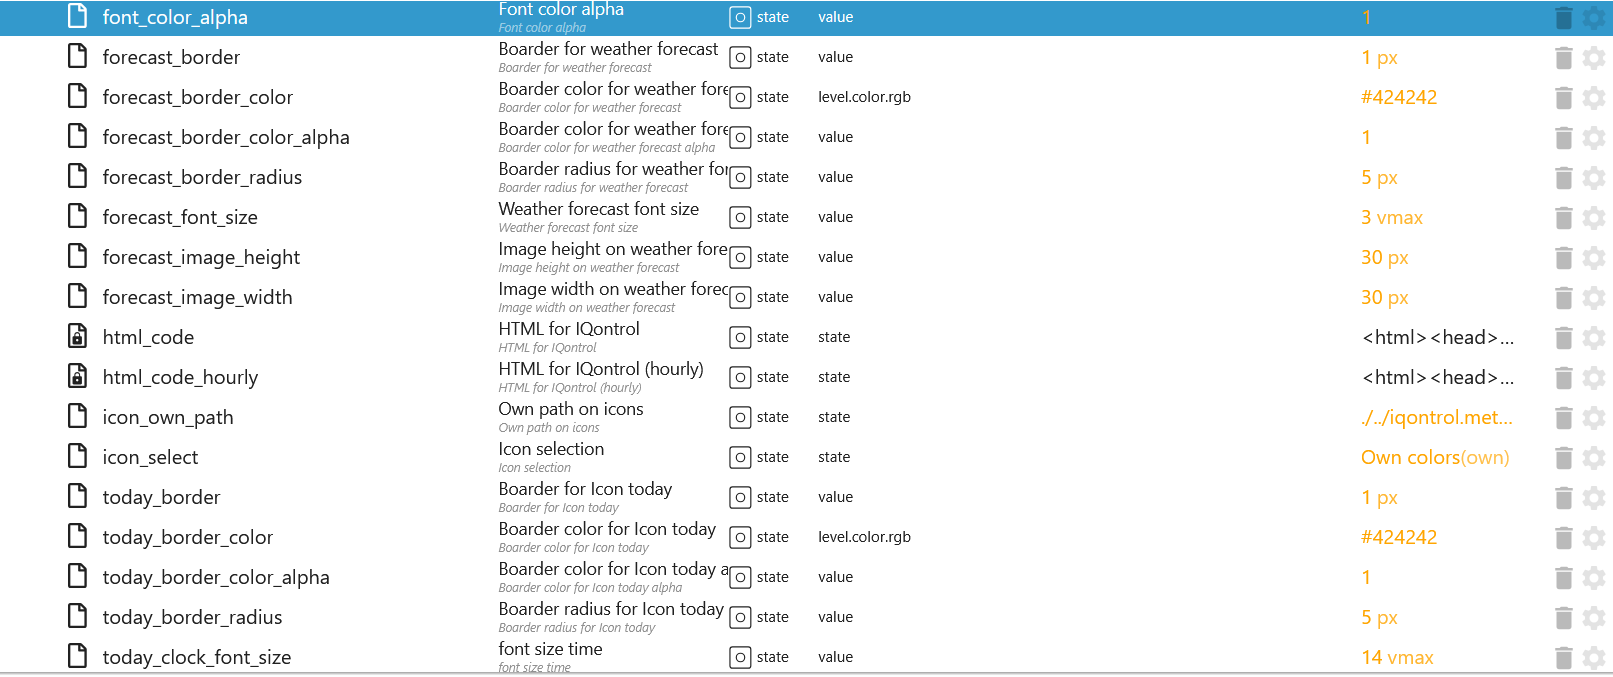
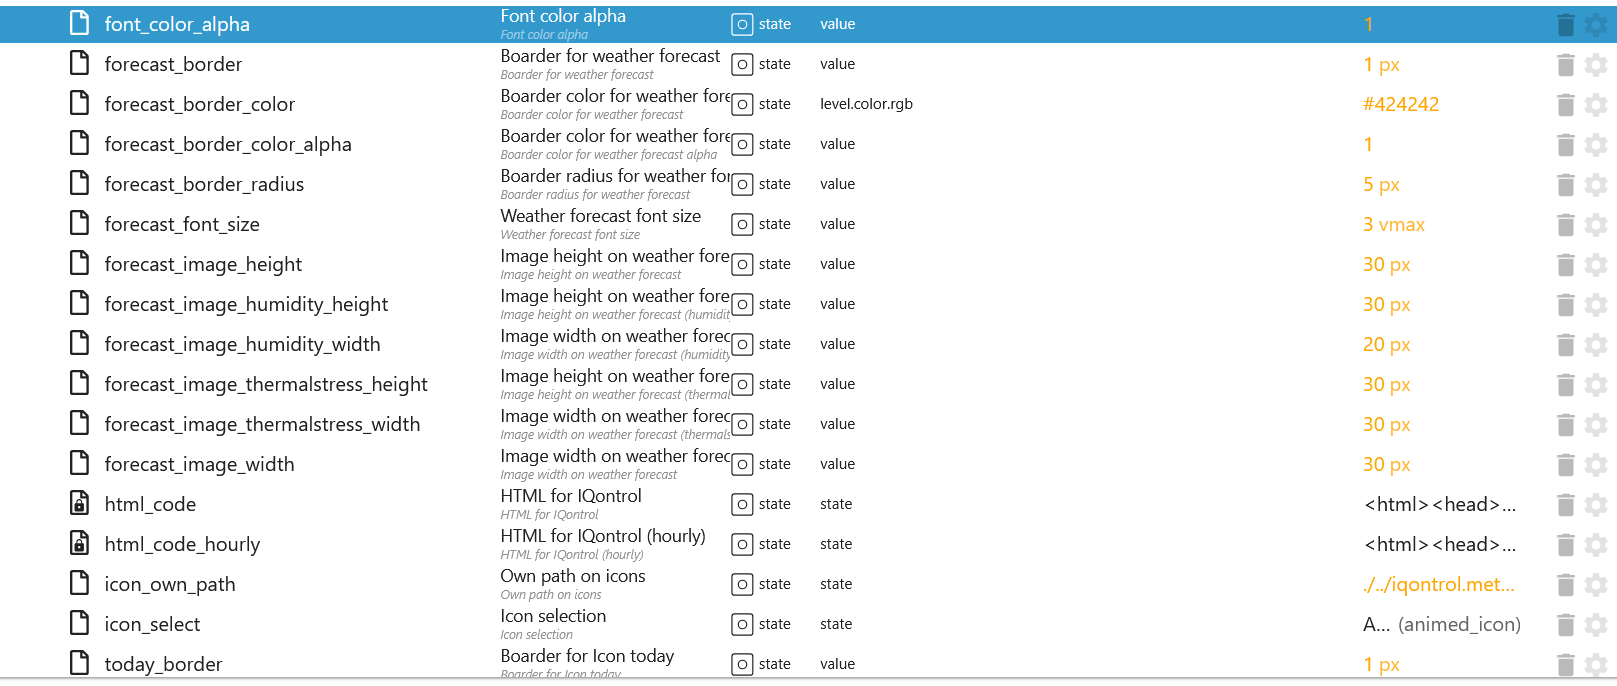
add html settings

diff --git a/lib/helper.js b/lib/helper.js
@@ -894,7 +894,7 @@ module.exports = {
             read: true,
             write: true,
             unit: "vm",
-            def: 15,
+            def: 30,
         };
         await this.createDataPoint(`html.today_image_width`, common, "state", null, null);
         common = {
@@ -917,7 +917,7 @@ module.exports = {
             read: true,
             write: true,
             unit: "vm",
-            def: 15,
+            def: 30,
         };
         await this.createDataPoint(`html.today_image_height`, common, "state", null, null);
         common = {
@@ -1035,6 +1035,98 @@ module.exports = {
             def: 30,
         };
         await this.createDataPoint(`html.forecast_image_height`, common, "state", null, null);
+        common = {
+            type: "number",
+            role: "value",
+            name: {
+                en: "Image width on weather forecast (humidity)",
+                de: "Bildbreite bei Wettervorhersage (Luftfeuchtigkeit)",
+                ru: "Ширина изображения прогноза погоды (влажность)",
+                pt: "Largura da imagem na previsão do tempo (umidade)",
+                nl: "Beeldbreedte op weersvoorspelling (vochtigheid)",
+                fr: "Largeur de l'image sur les prévisions météorologiques (humidité)",
+                it: "Larghezza dell'immagine nelle previsioni del tempo (umidità)",
+                es: "Ancho de la imagen en el pronóstico del tiempo (humedad)",
+                pl: "Szerokość obrazu w prognozie pogody (wilgotność)",
+                uk: "Ширина зображення за прогнозом погоди (вологість)",
+                "zh-cn": "天气预报（湿度）图像宽度",
+            },
+            desc: "Image width on weather forecast (humidity)",
+            read: true,
+            write: true,
+            unit: "px",
+            def: 20,
+        };
+        await this.createDataPoint(`html.forecast_image_humidity_width`, common, "state", null, null);
+        common = {
+            type: "number",
+            role: "value",
+            name: {
+                en: "Image height on weather forecast (humidity)",
+                de: "Bildhöhe bei Wettervorhersage (Luftfeuchtigkeit)",
+                ru: "Высота изображения прогноза погоды (влажность)",
+                pt: "Altura da imagem na previsão do tempo (umidade)",
+                nl: "Hoogte van de afbeelding op de weersvoorspelling (vochtigheid)",
+                fr: "Hauteur de l'image sur les prévisions météorologiques (humidité)",
+                it: "Altezza dell'immagine nelle previsioni del tempo (umidità)",
+                es: "Altura de la imagen en el pronóstico del tiempo (humedad)",
+                pl: "Wysokość obrazu w prognozie pogody (wilgotność)",
+                uk: "Висота зображення за прогнозом погоди (вологість)",
+                "zh-cn": "天气预报图像高度（湿度）",
+            },
+            desc: "Image height on weather forecast (humidity)",
+            read: true,
+            write: true,
+            unit: "px",
+            def: 30,
+        };
+        await this.createDataPoint(`html.forecast_image_humidity_height`, common, "state", null, null);
+        common = {
+            type: "number",
+            role: "value",
+            name: {
+                en: "Image width on weather forecast (thermalstress)",
+                de: "Bildbreite bei Wettervorhersage (Thermalbelastung)",
+                ru: "Ширина изображения прогноза погоды (термостресс)",
+                pt: "Largura da imagem na previsão do tempo (estresse térmico)",
+                nl: "Beeldbreedte op weersvoorspelling (thermische belasting)",
+                fr: "Largeur de l'image sur les prévisions météorologiques (stress thermique)",
+                it: "Larghezza dell'immagine nelle previsioni del tempo (stress termico)",
+                es: "Ancho de la imagen en el pronóstico del tiempo (estrés térmico)",
+                pl: "Szerokość obrazu w prognozie pogody (naprężenie termiczne)",
+                uk: "Ширина зображення за прогнозом погоди (термічний стрес)",
+                "zh-cn": "天气预报图像宽度（热应力）",
+            },
+            desc: "Image width on weather forecast (thermalstress)",
+            read: true,
+            write: true,
+            unit: "px",
+            def: 30,
+        };
+        await this.createDataPoint(`html.forecast_image_thermalstress_width`, common, "state", null, null);
+        common = {
+            type: "number",
+            role: "value",
+            name: {
+                en: "Image height on weather forecast (thermalstress)",
+                de: "Bildhöhe bei Wettervorhersage (Thermalbelastung)",
+                ru: "Высота изображения в прогнозе погоды (термостресс)",
+                pt: "Altura da imagem na previsão do tempo (estresse térmico)",
+                nl: "Beeldhoogte op weersvoorspelling (thermische belasting)",
+                fr: "Hauteur de l'image sur les prévisions météorologiques (stress thermique)",
+                it: "Altezza dell'immagine nelle previsioni del tempo (stress termico)",
+                es: "Altura de la imagen en el pronóstico meteorológico (estrés térmico)",
+                pl: "Wysokość obrazu w prognozie pogody (naprężenie termiczne)",
+                uk: "Висота зображення за прогнозом погоди (термічний стрес)",
+                "zh-cn": "天气预报中的图像高度（热应力）",
+            },
+            desc: "Image height on weather forecast (thermalstress)",
+            read: true,
+            write: true,
+            unit: "px",
+            def: 30,
+        };
+        await this.createDataPoint(`html.forecast_image_thermalstress_height`, common, "state", null, null);
     },
     /**
      * Create Icon Color

diff --git a/main.js b/main.js
@@ -1522,15 +1522,15 @@ class OpenMeteo extends utils.Adapter {
                     ? "/adapter/open-meteo/img/weatheranimated/humidity.svg"
                     : "/adapter/open-meteo/img/weathericons/humidity-water-drop.svg";
             const humi =
-                `<img width="${this.html.forecast_image_width}px" height="${this.html.forecast_image_height}px" ` +
+                `<img width="${this.html.forecast_image_humidity_width}px" height="${this.html.forecast_image_humidity_height}px" ` +
                 `style="vertical-align:middle" alt="${humidity}" title="${humidity}" ` +
                 `src='${humi_path}'/>`;
             const min =
-                `<img width="${this.html.forecast_image_width}px" height="${this.html.forecast_image_height}px" ` +
+                `<img width="${this.html.forecast_image_thermalstress_width}px" height="${this.html.forecast_image_thermalstress_height}px" ` +
                 `style="vertical-align:middle" alt="${temp_min}" title="${temp_min}" ` +
                 `src='/adapter/open-meteo/img/thermalstress/${this.getThermalStress(temp_min)}'/>`;
             const max =
-                `<img width="${this.html.forecast_image_width}px" height="${this.html.forecast_image_height}px" ` +
+                `<img width="${this.html.forecast_image_thermalstress_width}px" height="${this.html.forecast_image_thermalstress_height}px" ` +
                 `style="vertical-align:middle" alt="${temp_max}" title="${temp_max}" ` +
                 `src='/adapter/open-meteo/img/thermalstress/${this.getThermalStress(temp_max)}'/>`;
             const daily =
@@ -1542,7 +1542,7 @@ class OpenMeteo extends utils.Adapter {
                         <td>${daily}</td>
                         <td nowrap>${min} ${temp_min}°C ${constants.DAYNAME.unit[this.lang]} ${max} ${temp_max}°C</td>
                         <td>${direc}</td>
-                        <td>${humi} ${humidity}%</td>
+                        <td nowrap>${humi} ${humidity}%</td>
                         <td align=left>${text}</td>
                     </tr>`;
         }
@@ -1645,11 +1645,11 @@ class OpenMeteo extends utils.Adapter {
                         ? "/adapter/open-meteo/img/weatheranimated/humidity.svg"
                         : "/adapter/open-meteo/img/weathericons/humidity-water-drop.svg";
                 const humi =
-                    `<img width="${this.html.forecast_image_width}px" height="${this.html.forecast_image_height}px" ` +
+                    `<img width="${this.html.forecast_image_humidity_width}px" height="${this.html.forecast_image_humidity_height}px" ` +
                     `style="vertical-align:middle" alt="${humidity}" title="${humidity}" ` +
                     `src='${humi_path}'/>`;
                 const min =
-                    `<img width="${this.html.forecast_image_width}px" height="${this.html.forecast_image_height}px" ` +
+                    `<img width="${this.html.forecast_image_thermalstress_width}px" height="${this.html.forecast_image_thermalstress_height}px" ` +
                     `style="vertical-align:middle" alt="${temp}" title="${temp}" ` +
                     `src='/adapter/open-meteo/img/thermalstress/${this.getThermalStress(temp)}'/>`;
                 const daily =
@@ -1661,7 +1661,7 @@ class OpenMeteo extends utils.Adapter {
                                 <td>${daily}</td>
                                 <td nowrap>${min} ${temp}°C</td>
                                 <td>${direc}</td>
-                                <td>${humi} ${humidity}%</td>
+                                <td nowrap>${humi} ${humidity}%</td>
                                 <td align=left>${text}</td>
                             </tr>`;
             }
@@ -1682,11 +1682,11 @@ class OpenMeteo extends utils.Adapter {
                         `style="vertical-align:middle" alt="${direction}°" title="${direction}°" ` +
                         `src='/open-meteo.0/grad${direction}.svg'/>`;
                     const humi =
-                        `<img width="${this.html.forecast_image_width}px" height="${this.html.forecast_image_height}px" ` +
+                        `<img width="${this.html.forecast_image_humidity_width}px" height="${this.html.forecast_image_humidity_height}px" ` +
                         `style="vertical-align:middle" alt="${humidity}" title="${humidity}" ` +
                         `src='${humi_path}'/>`;
                     const min =
-                        `<img width="${this.html.forecast_image_width}px" height="${this.html.forecast_image_height}px" ` +
+                        `<img width="${this.html.forecast_image_thermalstress_width}px" height="${this.html.forecast_image_thermalstress_height}px" ` +
                         `style="vertical-align:middle" alt="${temp}" title="${temp}" ` +
                         `src='/adapter/open-meteo/img/thermalstress/${this.getThermalStress(temp)}'/>`;
                     const daily =
@@ -1698,7 +1698,7 @@ class OpenMeteo extends utils.Adapter {
                                     <td>${daily}</td>
                                     <td nowrap>${min} ${temp}°C</td>
                                     <td>${direc}</td>
-                                    <td>${humi} ${humidity}%</td>
+                                    <td nowrap>${humi} ${humidity}%</td>
                                     <td align=left>${text}</td>
                                 </tr>`;
                 }
@@ -1742,7 +1742,7 @@ class OpenMeteo extends utils.Adapter {
         if ((val > 8 && val < 27) || (val > 0 && val < 9)) {
             return "thermalstress-none.svg";
         } else if (val > 26 && val < 33) {
-            return "stress-heat-minor.svg";
+            return "thermalstress-heat-minor.svg";
         } else if (val > 32 && val < 39) {
             return "thermalstress-heat-moderate.svg";
         } else if (val > 38 && val < 47) {

diff --git a/docs/de/README.md b/docs/de/README.md
@@ -499,49 +499,53 @@
 
 [Zusammenfassung](#zusammenfassung)
 
-| Objekte                       | Beschreibung                                                       |
-| ----------------------------- | ------------------------------------------------------------------ |
-| bg_color                      | Hintergrungfarbe (RGBA)                                            |
-| bg_color_alpha                | Hintergrundfarbe Aplha (RGB`A`)                                    |
-| cell_color                    | Zellfarbe (RGBA)                                                   |
-| cell_color_alpha              | Zellfarbe (RGB`A`)                                                 |
-| compass_bg_color_bottom       | Hintergrundfarbe unten                                             |
-| compass_bg_color_left         | Hintergrundfarbe links                                             |
-| compass_bg_color_right        | Hintergrundfarbe rechte                                            |
-| compass_color_border          | Randfarbe                                                          |
-| compass_color_font            | Schriftfarbe                                                       |
-| compass_color_needle_north    | Farbe Nordpfeil                                                    |
-| compass_color_needle_south    | Farbe Südpfeil                                                     |
-| compass_forecast_image_height | Höhe in der Wettervorhersage                                       |
-| compass_forecast_image_width  | Breite in der Wettervorhersage                                     |
-| font_color                    | Schriftfarbe (RGBA)                                                |
-| font_color_alpha              | Schriftfarbe (RGB`A`)                                              |
-| forecast_border               | Rahmenbreite von der Wettervorhersage                              |
-| forecast_border_color         | Rahmenfarbe von der Wettervorhersage (RGBA)                        |
-| forecast_border_color_alpha   | (RGB`A`)                                                           |
-| forecast_border_radius        | Rahmenradius von der Wettervorhersage                              |
-| forecast_font_size            | Schriftgröße von der Wettervorhersage                              |
-| forecast_image_height         | Bildhöhe von der Wettervorhersage                                  |
-| forecast_image_width          | Bildbreite von der Wettervorhersage                                |
-| html_code                     | HTML Code für IQontrol, VIS und VIS2 [VIS2 Script](#java-für-vis2) |
-| html_code_hourly              | HTML Code für IQontrol, VIS und VIS2 [VIS2 Script](#java-für-vis2) |
-| icon_own_path                 | Path vom Icon                                                      |
-| icon_select                   | Auswahl Icon (Pfad, Icon mt Farbänderung, eigene Icon)             |
-| today_border                  | Rahmenbreite vom aktuellen Tag                                     |
-| today_border_color            | Rahmenfarbe vom aktuellen Tag (RGBA)                               |
-| today_border_color_alpha      | Rahmenfarbe Alpha vom aktuellen Tag (RGB`A`)                       |
-| today_border_radius           | Rahmenradius vom aktuellen Tag                                     |
-| today_clock_font_size         | Schriftgröße der Uhr vom aktuellen Tag                             |
-| today_image_height            | Bildhöhe vom aktuellen Tag                                         |
-| today_image_width             | Bildbreite vom aktuellen Tag                                       |
-| today_text_algin              | Textausrichtung vom aktuellen Tag                                  |
-| today_text_border             | Rahmenbreite Text vom aktuellen Tag                                |
-| today_text_border_color       | Rahmenfarbe Alpha Text vom aktuellen Tag(RGBA)                     |
-| today_text_border_color_alpha | Rahmenfarbe Alpha Text vom aktuellen Tag(RGB`A`)                   |
-| today_text_border_radius      | Rahmenradius Text vom aktuellen Tag                                |
-| today_weather_font_size       | Schriftgröße Wetter vom aktuellen Tag                              |
-| trigger                       | NUR für IQontrol um die Wettervorhersage anzuzeigen                |
-| trigger_hourly                | NUR für IQontrol um die stündliche Wettervorhersage anzuzeigen     |
+| Objekte                             | Beschreibung                                                       |
+| ----------------------------------- | ------------------------------------------------------------------ |
+| bg_color                            | Hintergrungfarbe (RGBA)                                            |
+| bg_color_alpha                      | Hintergrundfarbe Aplha (RGB`A`)                                    |
+| cell_color                          | Zellfarbe (RGBA)                                                   |
+| cell_color_alpha                    | Zellfarbe (RGB`A`)                                                 |
+| compass_bg_color_bottom             | Hintergrundfarbe unten                                             |
+| compass_bg_color_left               | Hintergrundfarbe links                                             |
+| compass_bg_color_right              | Hintergrundfarbe rechte                                            |
+| compass_color_border                | Randfarbe                                                          |
+| compass_color_font                  | Schriftfarbe                                                       |
+| compass_color_needle_north          | Farbe Nordpfeil                                                    |
+| compass_color_needle_south          | Farbe Südpfeil                                                     |
+| compass_forecast_image_height       | Höhe in der Wettervorhersage                                       |
+| compass_forecast_image_width        | Breite in der Wettervorhersage                                     |
+| font_color                          | Schriftfarbe (RGBA)                                                |
+| font_color_alpha                    | Schriftfarbe (RGB`A`)                                              |
+| forecast_border                     | Rahmenbreite von der Wettervorhersage                              |
+| forecast_border_color               | Rahmenfarbe von der Wettervorhersage (RGBA)                        |
+| forecast_border_color_alpha         | (RGB`A`)                                                           |
+| forecast_border_radius              | Rahmenradius von der Wettervorhersage                              |
+| forecast_font_size                  | Schriftgröße von der Wettervorhersage                              |
+| forecast_image_height               | Bildhöhe von der Wettervorhersage                                  |
+| forecast_image_humidity_height      | Bildhöhe vom Icon Luftfeuchtigkeit                                 |
+| forecast_image_humidity_width       | Bildbreite vom Icon Luftfeuchtigkeit                               |
+| forecast_image_thermalstress_height | Bildhöhe vom Icon thermische Belastung                             |
+| forecast_image_thermalstress_width  | Bildbreite vom Icon thermische Belastung                           |
+| forecast_image_width                | Bildbreite von der Wettervorhersage                                |
+| html_code                           | HTML Code für IQontrol, VIS und VIS2 [VIS2 Script](#java-für-vis2) |
+| html_code_hourly                    | HTML Code für IQontrol, VIS und VIS2 [VIS2 Script](#java-für-vis2) |
+| icon_own_path                       | Path vom Icon                                                      |
+| icon_select                         | Auswahl Icon (Pfad, Icon mt Farbänderung, eigene Icon)             |
+| today_border                        | Rahmenbreite vom aktuellen Tag                                     |
+| today_border_color                  | Rahmenfarbe vom aktuellen Tag (RGBA)                               |
+| today_border_color_alpha            | Rahmenfarbe Alpha vom aktuellen Tag (RGB`A`)                       |
+| today_border_radius                 | Rahmenradius vom aktuellen Tag                                     |
+| today_clock_font_size               | Schriftgröße der Uhr vom aktuellen Tag                             |
+| today_image_height                  | Bildhöhe vom aktuellen Tag                                         |
+| today_image_width                   | Bildbreite vom aktuellen Tag                                       |
+| today_text_algin                    | Textausrichtung vom aktuellen Tag                                  |
+| today_text_border                   | Rahmenbreite Text vom aktuellen Tag                                |
+| today_text_border_color             | Rahmenfarbe Alpha Text vom aktuellen Tag(RGBA)                     |
+| today_text_border_color_alpha       | Rahmenfarbe Alpha Text vom aktuellen Tag(RGB`A`)                   |
+| today_text_border_radius            | Rahmenradius Text vom aktuellen Tag                                |
+| today_weather_font_size             | Schriftgröße Wetter vom aktuellen Tag                              |
+| trigger                             | NUR für IQontrol um die Wettervorhersage anzuzeigen                |
+| trigger_hourly                      | NUR für IQontrol um die stündliche Wettervorhersage anzuzeigen     |
 
 ![wweather_states_html_1.png](img/weather_states_html_1.png)</br>
 ![wweather_states_html_2.png](img/weather_states_html_2.png)</br>

diff --git a/docs/en/README.md b/docs/en/README.md
@@ -499,49 +499,53 @@
 
 [Summary](#summary)
 
-| Objects                       | Description                                                        |
-| ----------------------------- | ------------------------------------------------------------------ |
-| bg_color                      | Background color (RGBA)                                            |
-| bg_color_alpha                | Background color Alpha (RGB`A`)                                    |
-| cell_color                    | Cell color (RGBA)                                                  |
-| cell_color_alpha              | Cell color (RGB`A`)                                                |
-| compass_bg_color_bottom       | Bottom background color                                            |
-| compass_bg_color_left         | Left background color                                              |
-| compass_bg_color_right        | Right background color                                             |
-| compass_color_border          | Border color                                                       |
-| compass_color_font            | Font color                                                         |
-| compass_color_needle_north    | North arrow color                                                  |
-| compass_color_needle_south    | South arrow color                                                  |
-| compass_forecast_image_height | Height in the weather forecast                                     |
-| compass_forecast_image_width  | Latitude in the weather forecast                                   |
-| font_color                    | Font color (RGBA)                                                  |
-| font_color_alpha              | Font color (RGB`A`)                                                |
-| forecast_border               | Weather forecast border width                                      |
-| forecast_border_color         | Weather forecast border color (RGBA)                               |
-| forecast_border_color_alpha   | (RGB`A`)                                                           |
-| forecast_border_radius        | Weather forecast border radius                                     |
-| forecast_font_size            | Weather forecast font size                                         |
-| forecast_image_height         | Weather forecast image height                                      |
-| forecast_image_width          | Image width of the weather forecast                                |
-| html_code                     | HTML code for IQontrol, VIS and VIS2 [VIS2 Script](#java-for-vis2) |
-| html_code_hourly              | HTML code for IQontrol, VIS and VIS2 [VIS2 Script](#java-for-vis2) |
-| icon_own_path                 | Path of the icon                                                   |
-| icon_select                   | Select icon (path, icon with color change, own icon)               |
-| today_border                  | Border width of the current day                                    |
-| today_border_color            | Border color of the current day (RGBA)                             |
-| today_border_color_alpha      | Border color alpha of the current day (RGB`A`)                     |
-| today_border_radius           | Border radius of the current day                                   |
-| today_clock_font_size         | Font size of the clock for the current day                         |
-| today_image_height            | Image height of the current day                                    |
-| today_image_width             | Image width of the current day                                     |
-| today_text_algin              | Text alignment of the current day                                  |
-| today_text_border             | Text border width of the current day                               |
-| today_text_border_color       | Alpha text border color of the current day (RGBA)                  |
-| today_text_border_color_alpha | Alpha text border color of the current day (RGB`A`)                |
-| today_text_border_radius      | Text border radius of the current day                              |
-| today_weather_font_size       | Weather font size of the current day                               |
-| trigger                       | ONLY for IQontrol to display the weather forecast                  |
-| trigger_hourly                | ONLY for IQontrol to display the hourly weather forecast           |
+| Objects                             | Description                                                        |
+| ----------------------------------- | ------------------------------------------------------------------ |
+| bg_color                            | Background color (RGBA)                                            |
+| bg_color_alpha                      | Background color Alpha (RGB`A`)                                    |
+| cell_color                          | Cell color (RGBA)                                                  |
+| cell_color_alpha                    | Cell color (RGB`A`)                                                |
+| compass_bg_color_bottom             | Bottom background color                                            |
+| compass_bg_color_left               | Left background color                                              |
+| compass_bg_color_right              | Right background color                                             |
+| compass_color_border                | Border color                                                       |
+| compass_color_font                  | Font color                                                         |
+| compass_color_needle_north          | North arrow color                                                  |
+| compass_color_needle_south          | South arrow color                                                  |
+| compass_forecast_image_height       | Height in the weather forecast                                     |
+| compass_forecast_image_width        | Latitude in the weather forecast                                   |
+| font_color                          | Font color (RGBA)                                                  |
+| font_color_alpha                    | Font color (RGB`A`)                                                |
+| forecast_border                     | Weather forecast border width                                      |
+| forecast_border_color               | Weather forecast border color (RGBA)                               |
+| forecast_border_color_alpha         | (RGB`A`)                                                           |
+| forecast_border_radius              | Weather forecast border radius                                     |
+| forecast_font_size                  | Weather forecast font size                                         |
+| forecast_image_height               | Weather forecast image height                                      |
+| forecast_image_humidity_height      | Image height of the humidity icon                                  |
+| forecast_image_humidity_width       | Image width of the humidity icon                                   |
+| forecast_image_thermalstress_height | Image height of the thermal stress icon                            |
+| forecast_image_thermalstress_width  | Image width of the thermal stress icon                             |
+| forecast_image_width                | Image width of the weather forecast                                |
+| html_code                           | HTML code for IQontrol, VIS and VIS2 [VIS2 Script](#java-for-vis2) |
+| html_code_hourly                    | HTML code for IQontrol, VIS and VIS2 [VIS2 Script](#java-for-vis2) |
+| icon_own_path                       | Path of the icon                                                   |
+| icon_select                         | Select icon (path, icon with color change, own icon)               |
+| today_border                        | Border width of the current day                                    |
+| today_border_color                  | Border color of the current day (RGBA)                             |
+| today_border_color_alpha            | Border color alpha of the current day (RGB`A`)                     |
+| today_border_radius                 | Border radius of the current day                                   |
+| today_clock_font_size               | Font size of the clock for the current day                         |
+| today_image_height                  | Image height of the current day                                    |
+| today_image_width                   | Image width of the current day                                     |
+| today_text_algin                    | Text alignment of the current day                                  |
+| today_text_border                   | Text border width of the current day                               |
+| today_text_border_color             | Alpha text border color of the current day (RGBA)                  |
+| today_text_border_color_alpha       | Alpha text border color of the current day (RGB`A`)                |
+| today_text_border_radius            | Text border radius of the current day                              |
+| today_weather_font_size             | Weather font size of the current day                               |
+| trigger                             | ONLY for IQontrol to display the weather forecast                  |
+| trigger_hourly                      | ONLY for IQontrol to display the hourly weather forecast           |
 
 ![wweather_states_html_1.png](img/weather_states_html_1.png)</br>
 ![wweather_states_html_2.png](img/weather_states_html_2.png)</br>
